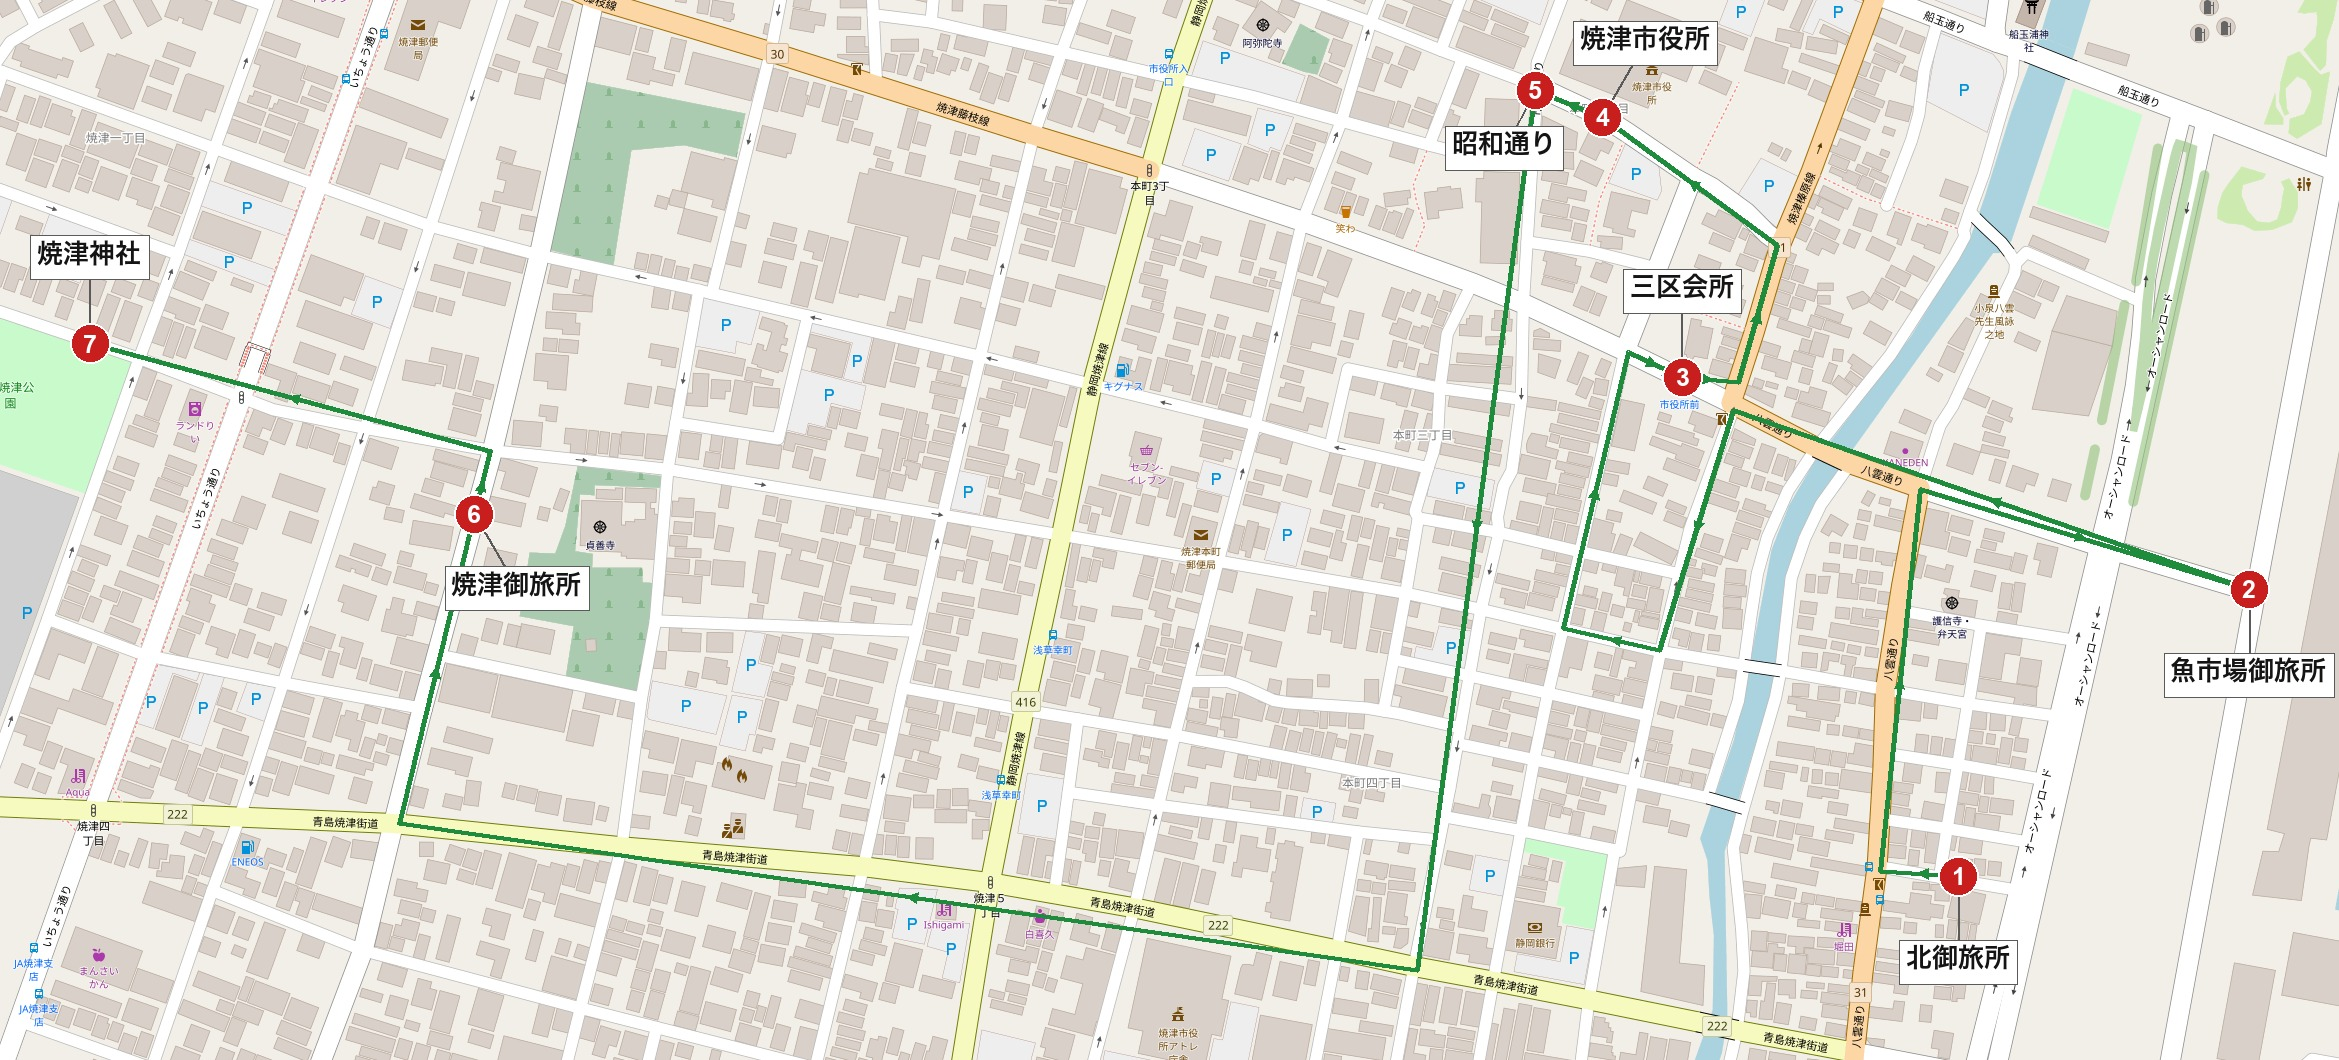
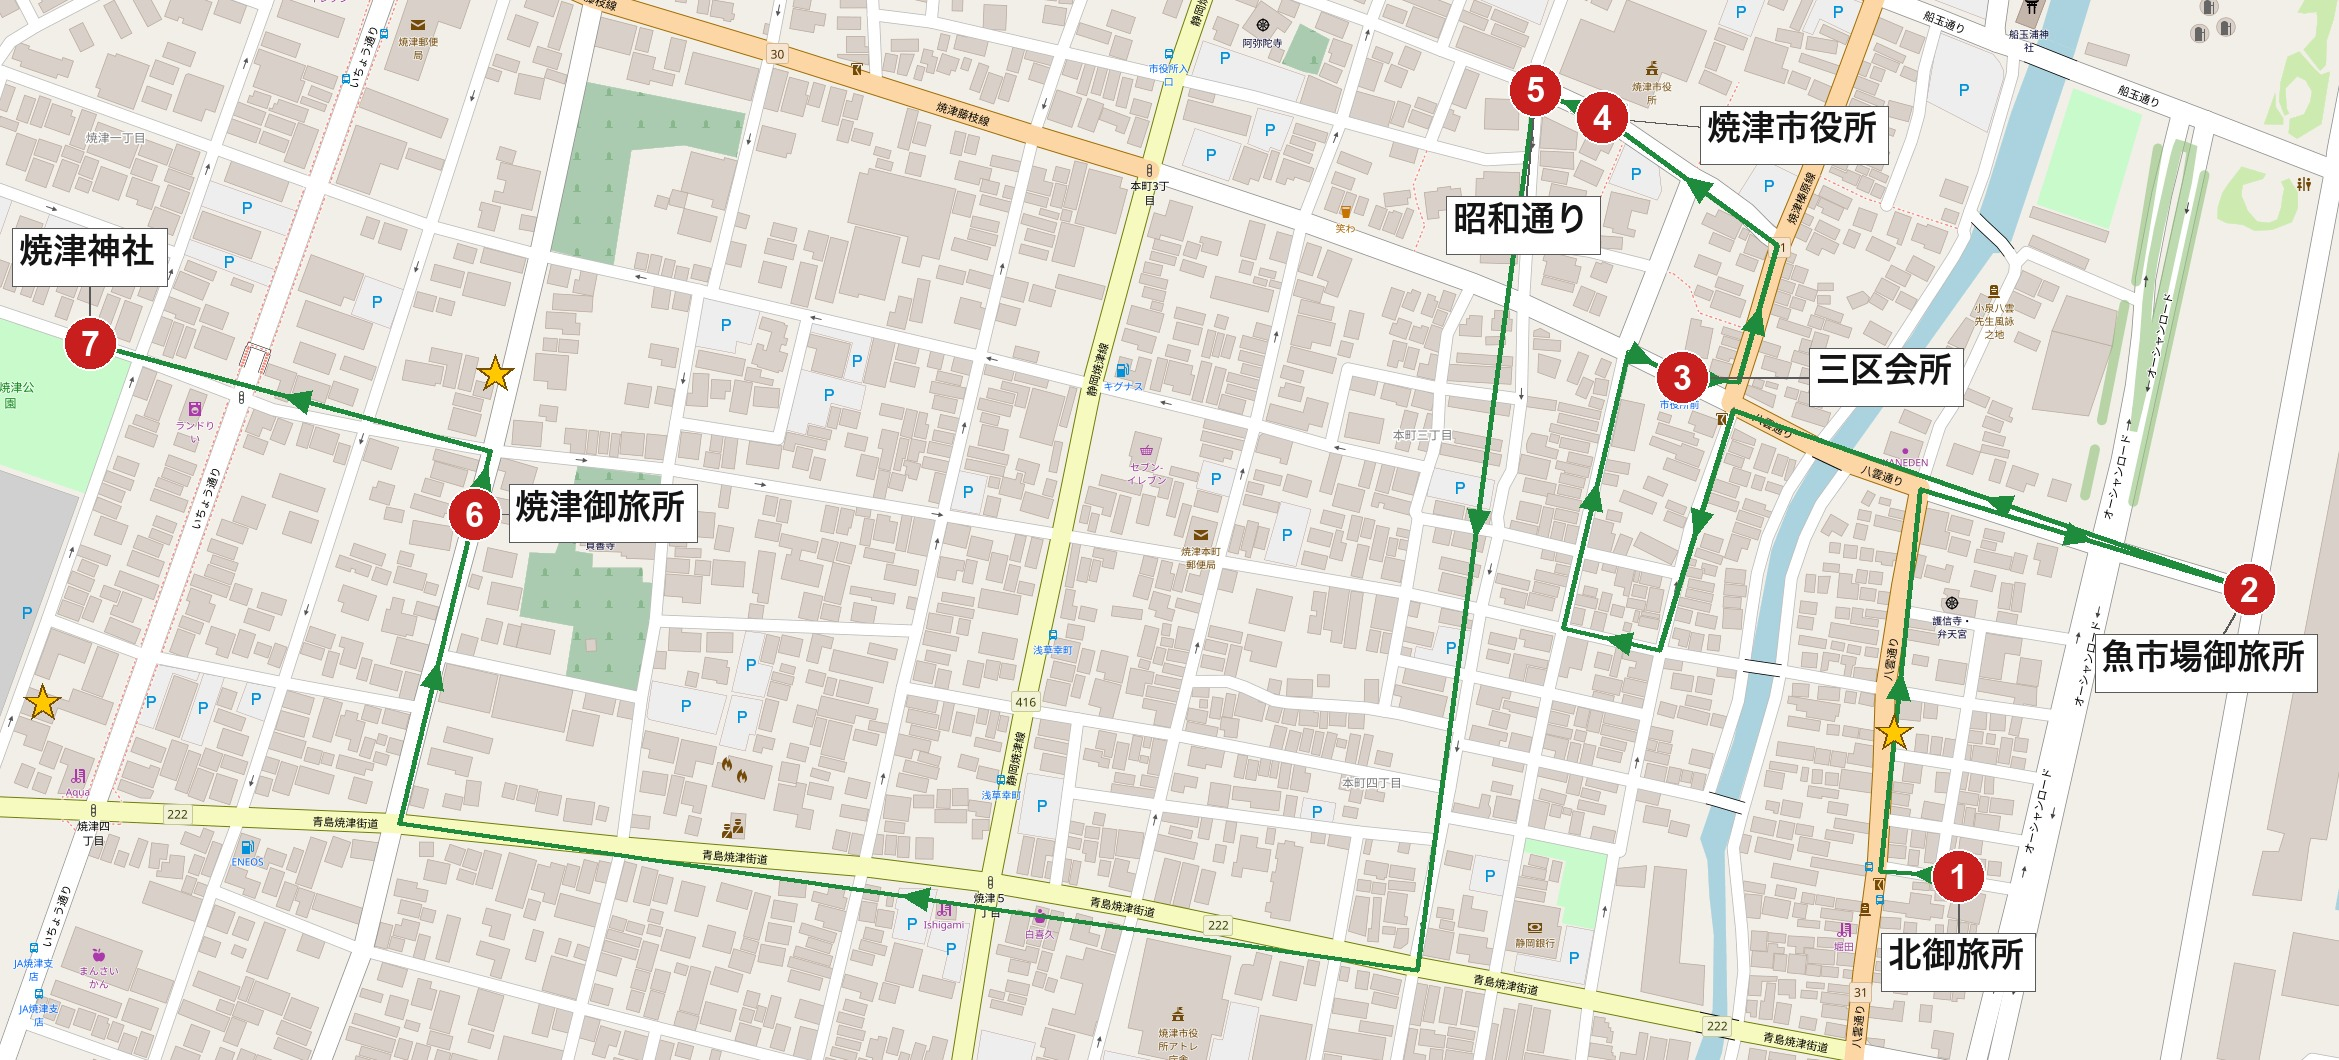
地図の吹き出し位置調整・矢印のマーカー回避・重複マーカーの実座標案内線を追加
対応する地点名がある休憩所のみ星マーカーで表示。
schedule.md/rest-areas.mdの修正をdata.jsに反映。

diff --git a/data.js b/data.js
@@ -52,12 +52,12 @@ const FESTIVAL_DATA = {
         { time: "09:00", title: "社務所を出発、人馬（ショウ、クリス）\n※傘、うちわを持って宮司宅へ", place: "社務所" },
         { time: "09:10", title: "到着したら両親／コウタロウで宮司宅に挨拶、次に人馬でコウタロウが本人を降ろす\n※本人／両親／コウタロウの飲み物と食べ物を持ってくる", place: "宮司宅" },
         { time: "10:15", title: "本人準備完了", place: "" },
-        { time: "10:30", title: "休憩所片付け、お迎え準備、終わったら宮司宅へ\n※神輿が来るときの人馬（ショウ、クリス）\n※うちわ（　）、傘（　）", place: "" },
-        { time: "11:00", title: "馬方はお迎えに　※時間確認\n※コウスケ、ケイスケ", place: "" },
+        { time: "10:30", title: "神社の休憩所片付け、お迎え準備、終わったら宮司宅へ\n※神輿が来るときの人馬（ショウ、クリス）\n※うちわ（　）、傘（　）", place: "" },
+        { time: "11:00", title: "神社の馬方お迎えに　※時間確認\n※コウスケ、ケイスケ", place: "" },
         { time: "11:15", title: "裏方さん：保冷車で田子重へ（西川さん達２名）\n※ラーメン（　）そば（　）おにぎり（　）\nみっちーさん：祭礼車で中野家へ、ゴミなど降ろす\nママさん：自転車で近藤宅へ、北のカレー用ご飯炊く（　）升", place: "" },
         { time: "12:00", title: "浅草通り入ったくらいから走る馬横（ダイジロウ、兄）\n※むしろ５枚（内小２枚）\n※近藤宅にむしろ、大丸、手持ち提灯２本用意\n※神輿が近藤宅を通ったらむしろ準備（ハセガワ＋２名）\n※交通整理者は、塩川新聞前の交差点注意！\n※御供捧、流鏑馬が信号で詰まったり別れたりしないように、信号を渡るのは御供捧＆流鏑馬だけにするなど\n※馬方さん、御供捧、流鏑馬、太一さん、四区に走ることを伝える（　誰が　）\n※終わったらむしろ片付け、近藤宅へ、写真撮影", place: "青木さん前" },
         { time: "12:30", title: "田子重前を通過したらハセガワは青木さんに電話（そろそろ着く）", place: "田子重" },
-        { time: "13:15", title: "御旅所手前の交差点で下馬、人馬（ショウ、クリス）で南御旅所へ挨拶（一礼）\n※馬方は接待３名（オード２台）と丸川まで送り\n※本人はそのまま金澤宅へ\n※金澤宅に本人より先に両親、コウタロウ挨拶\n※丸久前から本人、両親、コウタロウの飲み物、食べ物を運ぶ", place: "南御旅所" }
+        { time: "13:15", title: "南御旅所手前の交差点で下馬、人馬（ショウ、クリス）で南御旅所へ挨拶（一礼）\n※馬方は接待３名（オード２台）と丸川まで送り\n※本人はそのまま金澤宅へ\n※金澤宅に本人より先に両親、コウタロウ挨拶\n※丸久前から本人、両親、コウタロウの飲み物、食べ物を運ぶ", place: "南御旅所" }
       ]
     },
     {
@@ -66,9 +66,9 @@ const FESTIVAL_DATA = {
         { time: "14:00", title: "本人準備完了、金澤宅の片付け（　）\n片付け、保冷車、祭礼車は中野家へ\n※ゴミ捨て、飲み物、氷補充、手持ち提灯を載せる\n※そのまま北へ休憩所準備", place: "金澤宅" },
         { time: "14:30", title: "出発\n※人馬（ショウ、カツヨシ）、馬横（ショウ、クリス）\n※一区は本人馬上、両親、コウタロウは中まで\n※ママさん達、カレー温め、ご飯を祭礼車が来たら載せる\n※マルハチ村松くらいに青木さんに電話（ハセガワ）", place: "" },
         { time: "15:30", title: "右に曲がるところで馬から人馬（ショウ、クリス）へ、馬方は送り\n※北御旅所で一礼、西川宅へ、両親／コウタロウ先に西川宅へ挨拶", place: "北御旅所" },
-        { time: "15:45", title: "休憩所到着、提灯をタロウの家に取りに行く（１０名くらい）", place: "" },
+        { time: "15:45", title: "北御旅所の休憩所到着、提灯をタロウの家に取りに行く（１０名くらい）", place: "" },
         { time: "17:00", title: "中野家でオード準備１２台（ママさん２名、久美子、みお）", place: "" },
-        { time: "17:15", title: "北に馬方お迎え、バスタオル持ってく", place: "" },
+        { time: "17:15", title: "北の馬方お迎え、バスタオル持ってく", place: "" },
         { time: "17:20", title: "片付け、出発準備", place: "" },
         { time: "17:30", title: "休憩所出発、裏方は祭礼車／保冷車で中野家へ\n※補充、オード積み込み秋山宅へ、休憩所準備", place: "" },
         { time: "17:45", title: "ガードレール前で一礼、Uターン\n三区は馬上、両親、コウタロウは中へ", place: "新港" },
@@ -154,13 +154,13 @@ const FESTIVAL_DATA = {
           ]
         },
         {
-          area: "焼津神社",
+          area: "焼津神社休憩所",
           points: [
             { label: "ギャングスター", lat: 34.864337, lng: 138.314363, mapUrl: "https://maps.app.goo.gl/QwKxGKrKa4aBZh1Y8" }
           ]
         },
         {
-          area: "南御旅所",
+          area: "南御旅所休憩所",
           points: [
             { label: "本人休憩所", lat: 34.8569762, lng: 138.3226702, mapUrl: "https://maps.app.goo.gl/1kmxx98ycEYdm8P96" },
             { label: "丸久駐車場", lat: 34.857538, lng: 138.323784, mapUrl: "https://maps.app.goo.gl/RDvXaHLEkyUp4aH5A", image: "maruku-parking.jpg" },
@@ -168,13 +168,13 @@ const FESTIVAL_DATA = {
           ]
         },
         {
-          area: "北御旅所",
+          area: "北御旅所休憩所",
           points: [
             { label: "駐車場", lat: 34.864206, lng: 138.324295, mapUrl: "https://maps.app.goo.gl/dj4fn5q31Dw89k8y7", image: "kita-parking.jpg" }
           ]
         },
         {
-          area: "焼津御旅所",
+          area: "焼津御旅所休憩所",
           points: [
             { label: "秋山宅", lat: 34.865784, lng: 138.316792, mapUrl: "https://maps.app.goo.gl/9o91rHGGBsQnavCv7", image: "akiyama-house.jpg" }
           ]

diff --git a/schedule.md b/schedule.md
@@ -35,12 +35,12 @@
 | 09:00 | 社務所を出発、人馬（ショウ、クリス）<br>※傘、うちわを持って宮司宅へ | 社務所 |
 | 09:10 | 到着したら両親／コウタロウで宮司宅に挨拶、次に人馬でコウタロウが本人を降ろす<br>※本人／両親／コウタロウの飲み物と食べ物を持ってくる | 宮司宅 |
 | 10:15 | 本人準備完了 | |
-| 10:30 | 休憩所片付け、お迎え準備、終わったら宮司宅へ<br>※神輿が来るときの人馬（ショウ、クリス）<br>※うちわ（　）、傘（　） | |
-| 11:00 | 馬方はお迎えに　※時間確認<br>※コウスケ、ケイスケ | |
+| 10:30 | 神社の休憩所片付け、お迎え準備、終わったら宮司宅へ<br>※神輿が来るときの人馬（ショウ、クリス）<br>※うちわ（　）、傘（　） | |
+| 11:00 | 神社の馬方お迎えに　※時間確認<br>※コウスケ、ケイスケ | |
 | 11:15 | 裏方さん：保冷車で田子重へ（西川さん達２名）<br>※ラーメン（　）そば（　）おにぎり（　）<br>みっちーさん：祭礼車で中野家へ、ゴミなど降ろす<br>ママさん：自転車で近藤宅へ、北のカレー用ご飯炊く（　）升 | |
 | 12:00 | 浅草通り入ったくらいから走る馬横（ダイジロウ、兄）<br>※むしろ５枚（内小２枚）<br>※近藤宅にむしろ、大丸、手持ち提灯２本用意<br>※神輿が近藤宅を通ったらむしろ準備（ハセガワ＋２名）<br>※交通整理者は、塩川新聞前の交差点注意！<br>※御供捧、流鏑馬が信号で詰まったり別れたりしないように、信号を渡るのは御供捧＆流鏑馬だけにするなど<br>※馬方さん、御供捧、流鏑馬、太一さん、四区に走ることを伝える（　誰が　）<br>※終わったらむしろ片付け、近藤宅へ、写真撮影 | 青木さん前 |
 | 12:30 | 田子重前を通過したらハセガワは青木さんに電話（そろそろ着く） | 田子重 |
-| 13:15 | 御旅所手前の交差点で下馬、人馬（ショウ、クリス）で南御旅所へ挨拶（一礼）<br>※馬方は接待３名（オード２台）と丸川まで送り<br>※本人はそのまま金澤宅へ<br>※金澤宅に本人より先に両親、コウタロウ挨拶<br>※丸久前から本人、両親、コウタロウの飲み物、食べ物を運ぶ | 南御旅所 |
+| 13:15 | 南御旅所手前の交差点で下馬、人馬（ショウ、クリス）で南御旅所へ挨拶（一礼）<br>※馬方は接待３名（オード２台）と丸川まで送り<br>※本人はそのまま金澤宅へ<br>※金澤宅に本人より先に両親、コウタロウ挨拶<br>※丸久前から本人、両親、コウタロウの飲み物、食べ物を運ぶ | 南御旅所 |
 
 ## 8月13日(木)・往路→帰路
 
@@ -49,9 +49,9 @@
 | 14:00 | 本人準備完了、金澤宅の片付け（　）<br>片付け、保冷車、祭礼車は中野家へ<br>※ゴミ捨て、飲み物、氷補充、手持ち提灯を載せる<br>※そのまま北へ休憩所準備 | 金澤宅 |
 | 14:30 | 出発<br>※人馬（ショウ、カツヨシ）、馬横（ショウ、クリス）<br>※一区は本人馬上、両親、コウタロウは中まで<br>※ママさん達、カレー温め、ご飯を祭礼車が来たら載せる<br>※マルハチ村松くらいに青木さんに電話（ハセガワ） | |
 | 15:30 | 右に曲がるところで馬から人馬（ショウ、クリス）へ、馬方は送り<br>※北御旅所で一礼、西川宅へ、両親／コウタロウ先に西川宅へ挨拶 | 北御旅所 |
-| 15:45 | 休憩所到着、提灯をタロウの家に取りに行く（１０名くらい） | |
+| 15:45 | 北御旅所の休憩所到着、提灯をタロウの家に取りに行く（１０名くらい） | |
 | 17:00 | 中野家でオード準備１２台（ママさん２名、久美子、みお） | |
-| 17:15 | 北に馬方お迎え、バスタオル持ってく | |
+| 17:15 | 北の馬方お迎え、バスタオル持ってく | |
 | 17:20 | 片付け、出発準備 | |
 | 17:30 | 休憩所出発、裏方は祭礼車／保冷車で中野家へ<br>※補充、オード積み込み秋山宅へ、休憩所準備 | |
 | 17:45 | ガードレール前で一礼、Uターン<br>三区は馬上、両親、コウタロウは中へ | 新港 |

diff --git a/rest-areas.md b/rest-areas.md
@@ -4,20 +4,20 @@
 
 - 中野家（[Googleマップで見る](https://maps.app.goo.gl/inZJiRoX8iTsF2c67)）
 
-## 焼津神社
+## 焼津神社休憩所
 
 - ギャングスター（[Googleマップで見る](https://maps.app.goo.gl/QwKxGKrKa4aBZh1Y8)）
 
-## 南御旅所
+## 南御旅所休憩所
 
 - 本人休憩所（[Googleマップで見る](https://maps.app.goo.gl/1kmxx98ycEYdm8P96)）
 - 丸久駐車場（[Googleマップで見る](https://maps.app.goo.gl/RDvXaHLEkyUp4aH5A)） 写真: maruku-parking.jpg
 - 馬方休憩所（[Googleマップで見る](https://maps.app.goo.gl/zqu8X7JYVsVikAXD8)） 写真: umakata-rest.jpg
 
-## 北御旅所
+## 北御旅所休憩所
 
 - 駐車場（[Googleマップで見る](https://maps.app.goo.gl/dj4fn5q31Dw89k8y7)） 写真: kita-parking.jpg
 
-## 焼津御旅所
+## 焼津御旅所休憩所
 
 - 秋山宅（[Googleマップで見る](https://maps.app.goo.gl/9o91rHGGBsQnavCv7)） 写真: akiyama-house.jpg